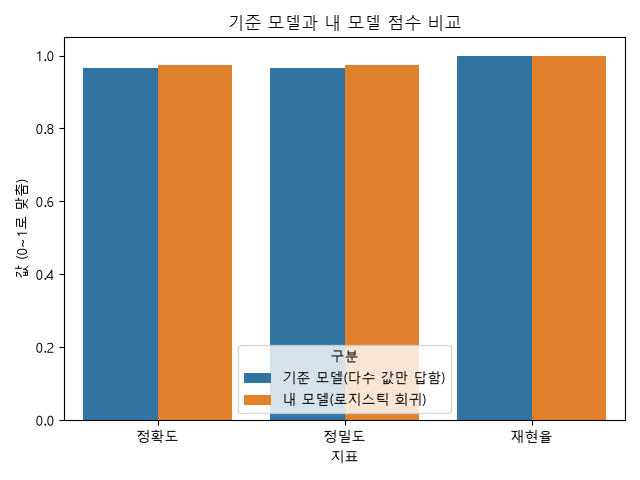
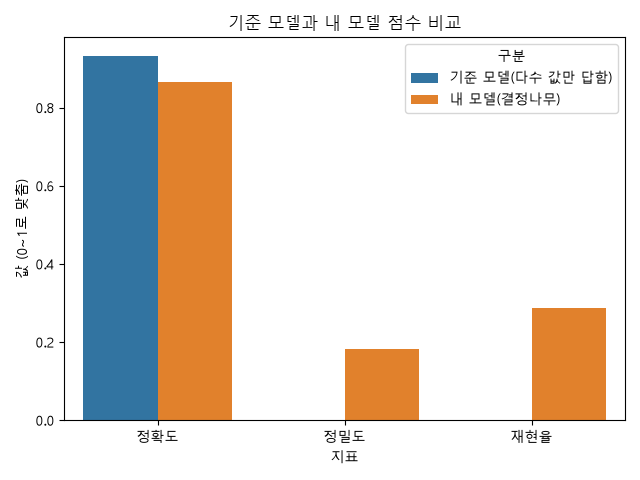
Add training/report tabs, model choice, and fix figures save path
Moves model training into the 학습 tab (logistic regression or decision
tree) so 결과 shows a trained model's scores; adds a Gemini-based report
tab gated on the same GOOGLE_API_KEY lookup; and saves figures relative
to app.py's own location instead of the process's working directory,
which previously left a stray figures/ folder at the repo root when the
app was launched from a different cwd.

diff --git a/day08/lab25_analysis_app/app.py b/day08/lab25_analysis_app/app.py
@@ -7,10 +7,28 @@ from datetime import datetime
 from sklearn.model_selection import train_test_split
 from sklearn.preprocessing import StandardScaler
 from sklearn.linear_model import LogisticRegression
+from sklearn.tree import DecisionTreeClassifier
 from sklearn.metrics import accuracy_score, precision_score, recall_score, confusion_matrix
+from dotenv import load_dotenv
+import google.generativeai as genai
 
 plt.rcParams["font.family"] = "Malgun Gothic"
 plt.rcParams["axes.unicode_minus"] = False
+
+load_dotenv(os.path.join(os.path.dirname(__file__), ".env"))
+
+
+def get_api_key():
+    try:
+        key = st.secrets.get("GOOGLE_API_KEY")
+    except Exception:
+        key = None
+    if not key:
+        key = os.getenv("GOOGLE_API_KEY")
+    return key
+
+
+api_key = get_api_key()
 
 st.set_page_config(page_title="설비 측정값으로 고장을 미리 알아채기")
 
@@ -157,30 +175,56 @@ with tab2:
                     st.dataframe(split_table)
 
 with tab3:
-    st.write("여기는 아직 비어 있습니다")
-
-with tab4:
     if "X_train" not in st.session_state:
         st.write("2번 탭에서 적용을 먼저 눌러주세요")
+    else:
+        model_choice = st.selectbox("어떤 모델을 쓸까요", ["로지스틱 회귀", "결정나무"], key="model_choice")
+
+        if st.button("학습하기"):
+            X_train = st.session_state["X_train"]
+            y_train = st.session_state["y_train"]
+
+            scaler = StandardScaler()
+            X_train_scaled = scaler.fit_transform(X_train)
+
+            if model_choice == "로지스틱 회귀":
+                model = LogisticRegression(max_iter=1000)
+                learning_point = (
+                    "각 변수에 가중치(계수)를 곱해서 더한 값을 0~1 사이 확률로 바꿔 판단합니다. "
+                    "계수의 절댓값이 클수록 그 변수가 판단에 크게 작용합니다."
+                )
+            else:
+                model = DecisionTreeClassifier(random_state=42)
+                learning_point = (
+                    "한 번에 변수 하나를 골라 기준값보다 큰지 작은지로 데이터를 둘로 나누는 것을 반복합니다. "
+                    "어떤 변수로 얼마나 자주 나눴는지가 변수 중요도로 남습니다."
+                )
+            model.fit(X_train_scaled, y_train)
+
+            st.session_state["scaler"] = scaler
+            st.session_state["model"] = model
+            st.write("학습이 끝났습니다")
+            st.write(f"학습 포인트 ({model_choice}): {learning_point}")
+
+with tab4:
+    if "model" not in st.session_state:
+        st.write("3번 탭에서 학습을 먼저 해주세요")
     else:
         X_train = st.session_state["X_train"]
         X_test = st.session_state["X_test"]
         y_train = st.session_state["y_train"]
         y_test = st.session_state["y_test"]
+        scaler = st.session_state["scaler"]
+        model = st.session_state["model"]
 
-        scaler = StandardScaler()
-        X_train_scaled = scaler.fit_transform(X_train)
-        X_test_scaled = scaler.transform(X_test)
-
-        model = LogisticRegression(max_iter=1000)
-        model.fit(X_train_scaled, y_train)
-        y_pred = model.predict(X_test_scaled)
+        y_pred = model.predict(scaler.transform(X_test))
 
         baseline_value = y_train.mode()[0]
         baseline_pred = pd.Series(baseline_value, index=y_test.index)
 
+        model_name = st.session_state.get("model_choice", "로지스틱 회귀")
         compare_table = pd.DataFrame({
-            "구분": ["기준 모델(다수 값만 답함)", "내 모델(로지스틱 회귀)"],
+            "구분": ["기준 모델(다수 값만 답함)", f"내 모델({model_name})"],
             "정확도": [
                 round(accuracy_score(y_test, baseline_pred) * 100, 2),
                 round(accuracy_score(y_test, y_pred) * 100, 2),
@@ -194,19 +238,28 @@ with tab4:
                 round(recall_score(y_test, y_pred, zero_division=0), 3),
             ],
         })
+        st.session_state["compare_table"] = compare_table
+
         st.write("기준 모델과 내 모델을 견줍니다")
         st.dataframe(compare_table)
 
-        os.makedirs("figures", exist_ok=True)
+        figures_dir = os.path.join(os.path.dirname(__file__), "figures")
+        os.makedirs(figures_dir, exist_ok=True)
 
-        importance = pd.Series(model.coef_[0], index=X_train.columns).abs().sort_values(ascending=False)
+        if hasattr(model, "coef_"):
+            importance = pd.Series(model.coef_[0], index=X_train.columns).abs().sort_values(ascending=False)
+            importance_label = "영향 크기(계수 절댓값)"
+        else:
+            importance = pd.Series(model.feature_importances_, index=X_train.columns).sort_values(ascending=False)
+            importance_label = "영향 크기(변수 중요도)"
+
         fig1, ax1 = plt.subplots()
         sns.barplot(x=importance.values, y=importance.index, ax=ax1)
-        ax1.set_xlabel("영향 크기(계수 절댓값)")
+        ax1.set_xlabel(importance_label)
         ax1.set_ylabel("변수")
         ax1.set_title("중요 변수")
         fig1.tight_layout()
-        fig1.savefig("figures/importance.png")
+        fig1.savefig(os.path.join(figures_dir, "importance.png"))
         st.pyplot(fig1)
         st.write("어느 항목이 판단에 많이 쓰였는지 보여줍니다")
 
@@ -217,7 +270,7 @@ with tab4:
         ax2.set_ylabel("실제")
         ax2.set_title("혼동행렬 (내 모델)")
         fig2.tight_layout()
-        fig2.savefig("figures/confusion_matrix.png")
+        fig2.savefig(os.path.join(figures_dir, "confusion_matrix.png"))
         st.pyplot(fig2)
         st.write("맞춘 것과 틀린 것이 각각 몇 건인지 보여줍니다")
 
@@ -229,11 +282,32 @@ with tab4:
         ax3.set_ylabel("값 (0~1로 맞춤)")
         ax3.set_title("기준 모델과 내 모델 점수 비교")
         fig3.tight_layout()
-        fig3.savefig("figures/compare_bar.png")
+        fig3.savefig(os.path.join(figures_dir, "compare_bar.png"))
         st.pyplot(fig3)
         st.write("기준 모델과 내 모델의 점수를 나란히 놓고 비교합니다")
 
 with tab5:
-    st.write("여기는 아직 비어 있습니다")
+    if not api_key:
+        st.write("열쇠가 없습니다")
+    elif "compare_table" not in st.session_state:
+        st.write("4번 탭에서 결과를 먼저 확인해주세요")
+    else:
+        if st.button("리포트 만들기"):
+            compare_table = st.session_state["compare_table"]
+            prompt = (
+                "다음은 설비 고장 예측 모델의 결과 표입니다. 이 표만 보고 다섯 줄로 리포트를 써줘. "
+                "각 줄은 두 문장을 넘지 않게. 숫자를 새로 만들지 말고 표에 있는 값만 써. "
+                "1) 무엇을 판단하려 했나 2) 데이터를 어떻게 손봤나 "
+                "3) 어떤 모델을 왜 골랐나 4) 결과가 어땠나(잘된 것과 놓친 것을 같이) "
+                "5) 문턱을 옮기면 무엇이 맞바뀌나\n\n"
+                f"{compare_table.to_string(index=False)}"
+            )
+            try:
+                genai.configure(api_key=api_key)
+                gmodel = genai.GenerativeModel("gemini-3.6-flash")
+                response = gmodel.generate_content(prompt)
+                st.write(response.text)
+            except Exception as e:
+                st.write(f"리포트를 만들지 못했습니다: {e}")
 
 st.write("현재 시각:", datetime.now().strftime("%Y-%m-%d %H:%M:%S"))
